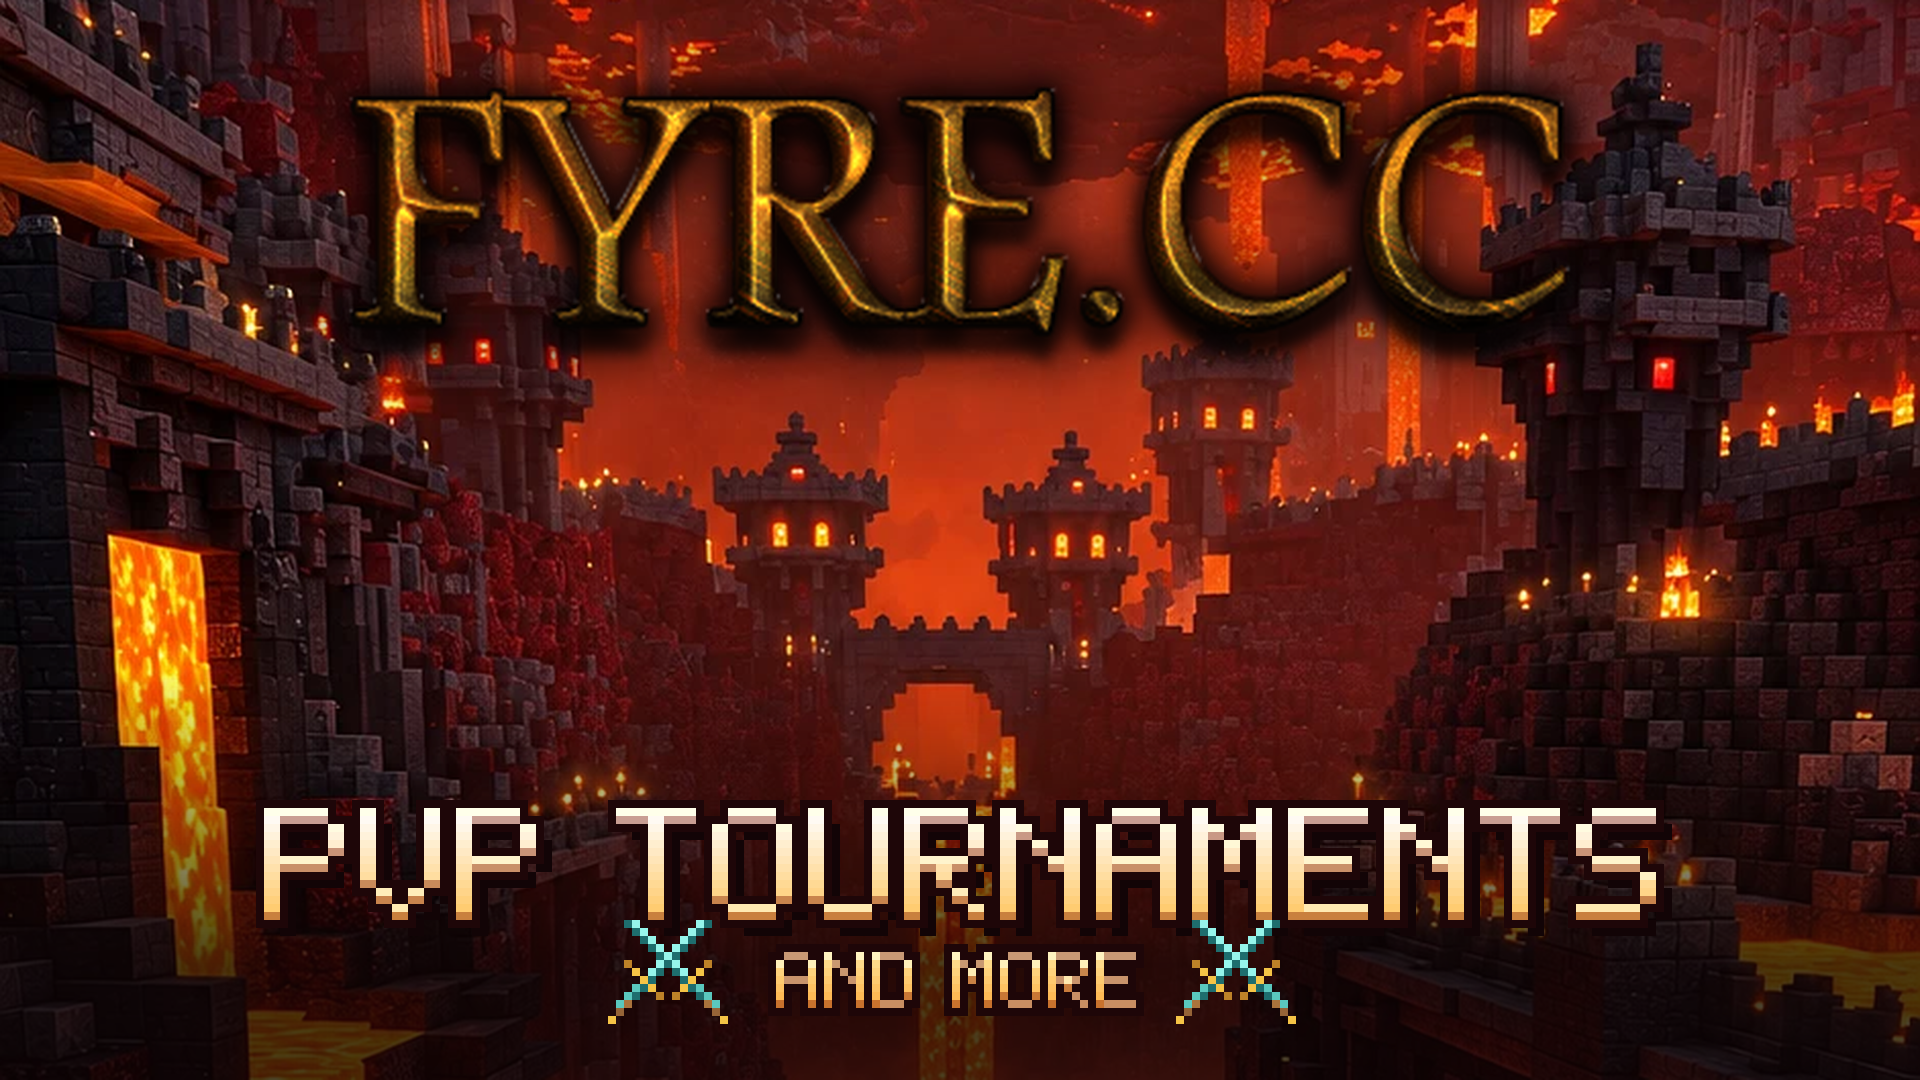
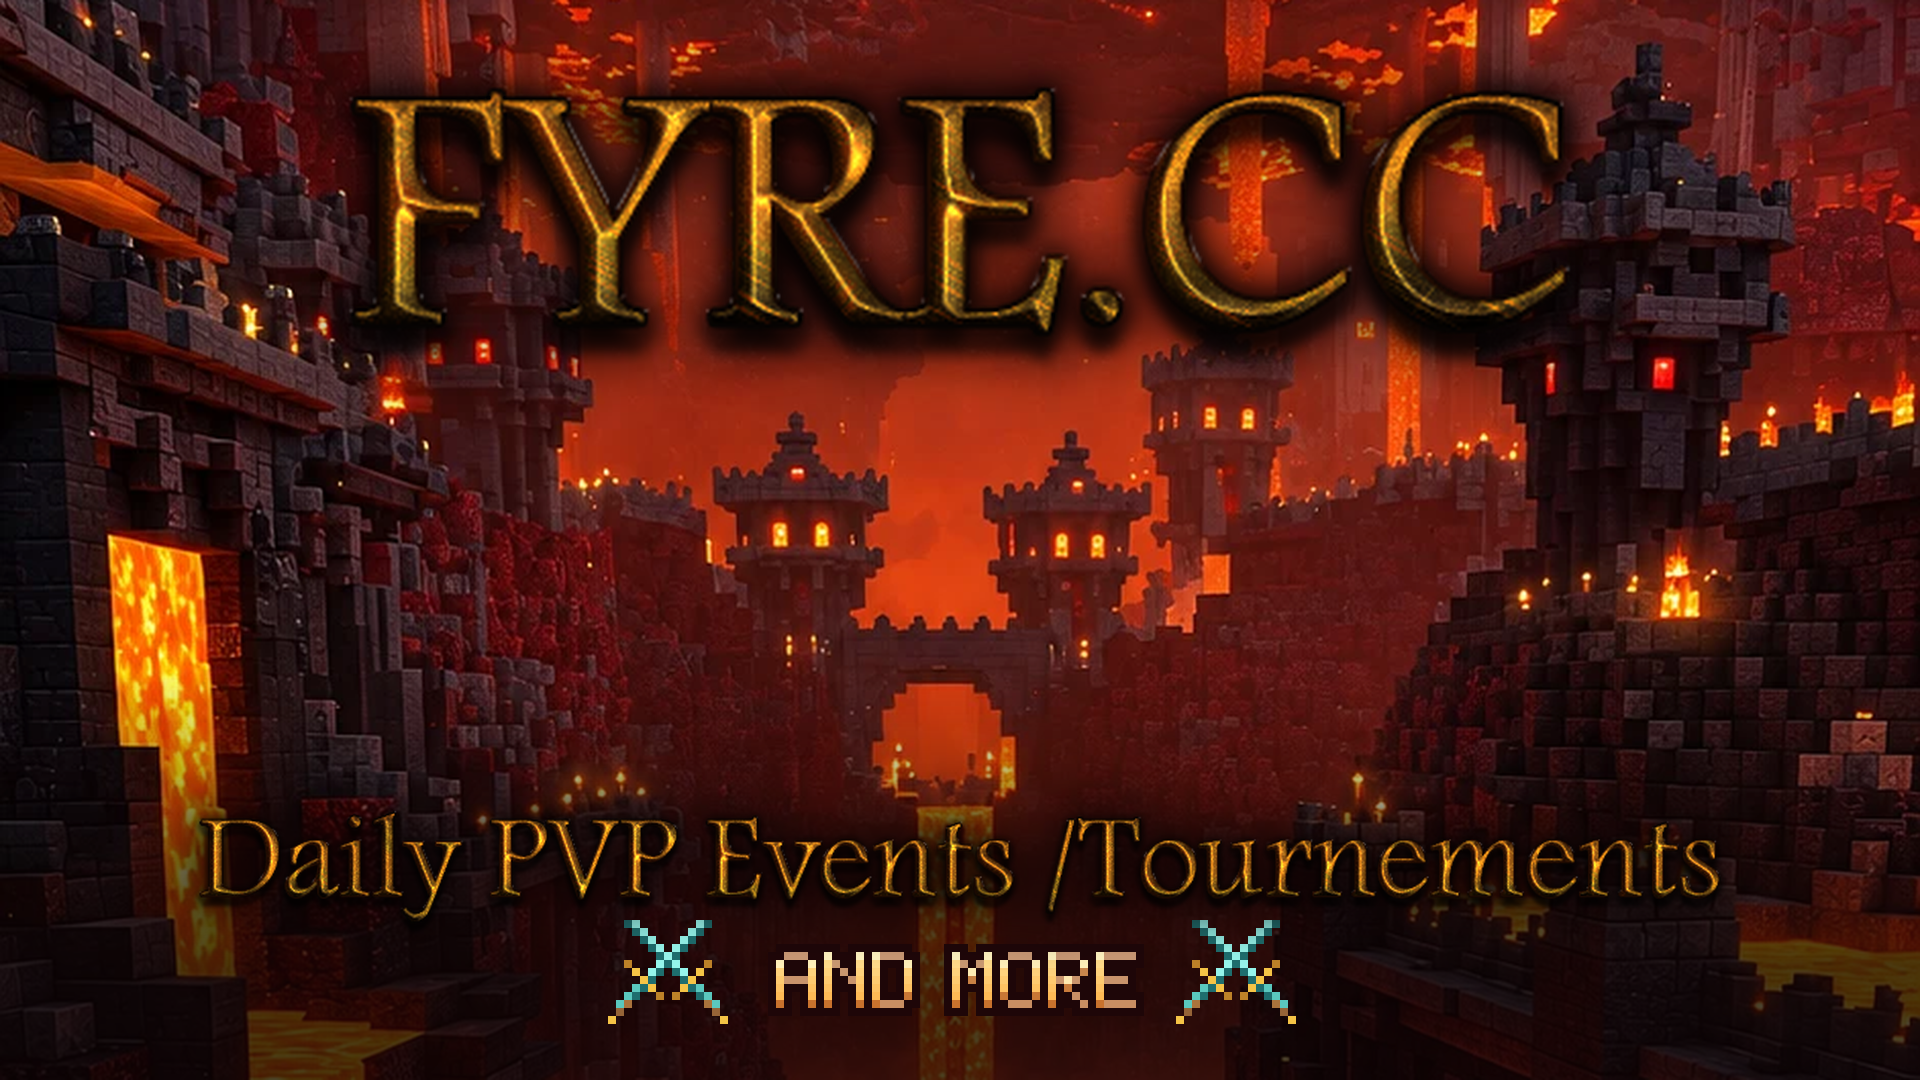
Use the gold Daily PVP Events tagline image
Adds --tagline to the generator: the supplied transparent tagline image
replaces the pixel PVP TOURNAMENTS line, with the same dark halo as the
logo. AND MORE and the swords stay below it.

Claude-Session: https://claude.ai/code/session_01LPehDgsXCVDFiYqWq7LdDj

Changed region(s): [[0.0938, 0.7333, 0.9062, 0.8861]]

diff --git a/branding/fyre/board.html b/branding/fyre/board.html
@@ -52,11 +52,11 @@ code { font-family: var(--mono); font-size: .92em; color: var(--fg); }
 <main>
   <header>
     <h1>FYRE</h1>
-    <p>Brand banner for the Fyre lava PvP server: the gold FYRE.CC logo over a Nether fortress canyon, with the tagline PVP TOURNAMENTS AND MORE between crossed diamond swords.</p>
+    <p>Brand banner for the Fyre lava PvP server: the gold FYRE.CC logo over a Nether fortress canyon, with the gold tagline Daily PVP Events / Tournaments and AND MORE between crossed diamond swords.</p>
   </header>
 
   <section>
-    <img class="hero" src="fyre-banner-1920x1080.png" width="1920" height="1080" alt="Fyre banner: gold FYRE.CC logo over a Nether fortress canyon, PVP TOURNAMENTS AND MORE below">
+    <img class="hero" src="fyre-banner-1920x1080.png" width="1920" height="1080" alt="Fyre banner: gold FYRE.CC logo over a Nether fortress canyon, Daily PVP Events / Tournaments and AND MORE below">
   </section>
 
   <section>
@@ -75,5 +75,5 @@ code { font-family: var(--mono); font-size: .92em; color: var(--fg); }
     </div>
   </section>
 
-  <footer>Source: <code>branding/fyre/make-fyre-banner.py</code>. Rebuild with <code>python3 make-fyre-banner.py --bg fyre-background.webp --logo fyre-logo.png</code>; <code>--bg-top</code> moves the crop, <code>--sub</code> and <code>--sub2</code> change the tagline.</footer>
+  <footer>Source: <code>branding/fyre/make-fyre-banner.py</code>. Rebuild with <code>python3 make-fyre-banner.py --bg fyre-background.webp --logo fyre-logo.png --tagline fyre-tagline.png</code>; <code>--bg-top</code> moves the crop, <code>--sub2</code> changes the AND MORE line.</footer>
 </main>

diff --git a/branding/fyre/make-fyre-banner.py b/branding/fyre/make-fyre-banner.py
@@ -6,7 +6,7 @@ the Discord server-banner sizes. Text stays in the centre, which Discord
 never crops. With --bg, the pixel text goes over a 16:9 crop of that image
 instead of the drawn scene.
 
-    python3 make-fyre-banner.py [--bg fyre-background.webp] [--logo fyre-logo.png] [--sub "PVP TOURNAMENTS" --sub2 "AND MORE"]
+    python3 make-fyre-banner.py [--bg fyre-background.webp] [--logo fyre-logo.png] [--tagline fyre-tagline.png] [--sub "PVP TOURNAMENTS" --sub2 "AND MORE"]
 """
 import argparse, math, random
 from PIL import Image, ImageFilter
@@ -83,6 +83,7 @@ def main():
     ap.add_argument('--out', default='fyre-banner')
     ap.add_argument('--bg', help='background image; omit to draw the pixel scene')
     ap.add_argument('--logo', help='logo image to use in place of the pixel FYRE title')
+    ap.add_argument('--tagline', help='tagline image to use in place of the --sub pixel line')
     ap.add_argument('--bg-top', type=float, default=.2, help='where the 16:9 crop starts, as a fraction of the image height')
     args = ap.parse_args()
     rng = random.Random(11)
@@ -204,7 +205,8 @@ def main():
     title_s, title_y, sub_y = (6, 10, 101) if args.bg else (7, 22, 79)
     if not args.logo:
         draw_text('FYRE', title_s, title_y, (255,242,130), (232,60,8), (40,8,8), shadow=3, glint=False)
-    draw_text(args.sub, 2, sub_y, (255,255,255), (255,196,90), (30,6,8))
+    if not args.tagline:
+        draw_text(args.sub, 2, sub_y, (255,255,255), (255,196,90), (30,6,8))
     sx, sw = draw_text(args.sub2, 1, sub_y+18, (255,226,150), (255,170,60), (30,6,8), shadow=1)
 
     # crossed diamond swords either side of the subtitle
@@ -243,20 +245,24 @@ def main():
                     sp[x, y] = int(190 * min(1, t*1.4))
             base = Image.composite(Image.new('RGB', (W, H), (14,3,4)), base, shade)
             base.paste(text, (0, 0), text)
-            if args.logo:
-                logo = Image.open(args.logo).convert('RGBA')
-                logo = logo.crop(logo.getchannel('A').getbbox())
-                lw = round(W * .66)
-                logo = logo.resize((lw, round(logo.height * lw / logo.width)), Image.LANCZOS)
-                pos = ((W - lw)//2, round(H * .06))
-                # soft dark halo so the gold separates from the orange sky
+            def overlay(path, width, top=None, bottom=None):
+                im = Image.open(path).convert('RGBA')
+                im = im.crop(im.getchannel('A').getbbox())
+                im = im.resize((width, round(im.height * width / im.width)), Image.LANCZOS)
+                y = top if top is not None else bottom - im.height
+                pos = ((W - width)//2, y)
+                # soft dark halo so the gold separates from the orange background
                 pad = W // 20
-                halo = Image.new('L', (logo.width + 2*pad, logo.height + 2*pad))
-                halo.paste(logo.getchannel('A'), (pad, pad))
+                halo = Image.new('L', (im.width + 2*pad, im.height + 2*pad))
+                halo.paste(im.getchannel('A'), (pad, pad))
                 halo = halo.filter(ImageFilter.MaxFilter(2*(W//240)+1)).filter(ImageFilter.GaussianBlur(W/80))
                 halo = halo.point(lambda v: int(v * .85))
                 base.paste((12,2,3), (pos[0]-pad, pos[1]-pad), halo)
-                base.paste(logo, pos, logo)
+                base.paste(im, pos, im)
+            if args.logo:
+                overlay(args.logo, round(W * .66), top=round(H * .06))
+            if args.tagline:
+                overlay(args.tagline, round(W * .8), bottom=(sub_y + 16) * scale)
             base.save(out, optimize=True)
         else:
             text.save(out, optimize=True)
